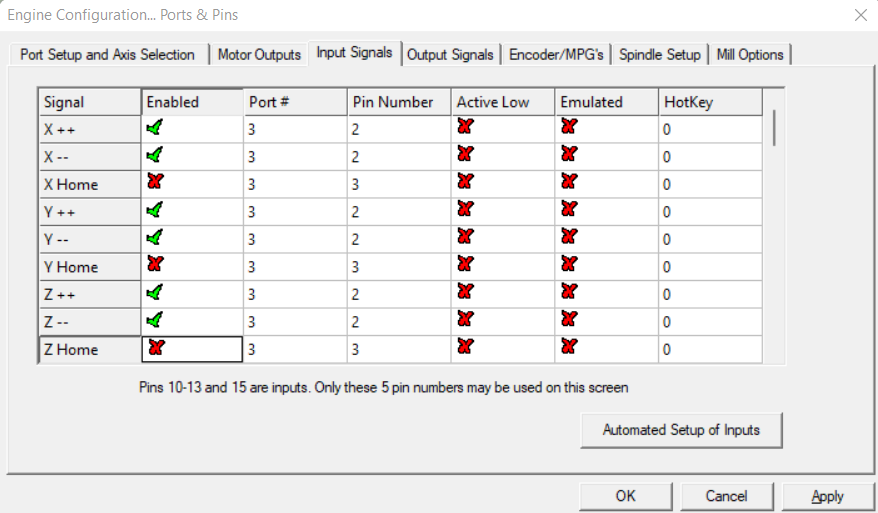
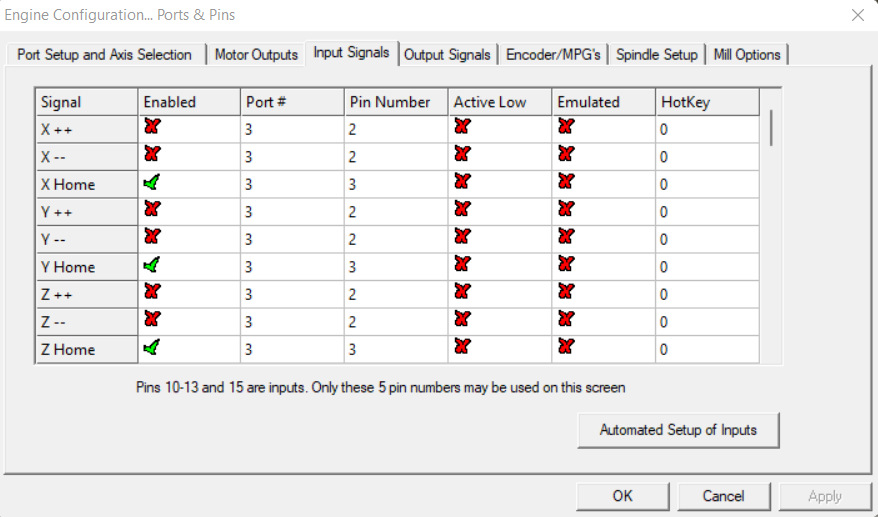
update

diff --git a/README.md b/README.md
@@ -83,9 +83,9 @@ Desplácese hacia abajo en la tabla hasta encontrar la opción **EStop**, asegú
 Los finales de carrera se conectarán de forma paralela en la entrada 2 de la tarjeta Mach3.
 
 Desplácese hacia arriba en la tabla hasta encontrar las opciones:
-**X++, X--, Y++, Y--, Z++, Z--** asegúrese de que tienen marcada la opción ```Enabled``` e ingrese los siguientes valores:
+**X HOME, Y HOME, ZHOME** asegúrese de que tienen marcada la opción ```Enabled``` e ingrese los siguientes valores:
 - Port #: 3. Se refiere a la tarjeta Mach3
-- Pin Number: 2. Se refiere a la entrada número 2 (**IN2**) de la tarjeta
+- Pin Number: 3. Se refiere a la entrada número 3 (**IN3**) de la tarjeta
 
 <p align="center"><img width="400" src="https://github.com/sofiaponteb/Guia-de-instalacion-software-Mach3/blob/main/img/finalescarrera.png"></p>
 
@@ -104,6 +104,13 @@ En el Gcode se usarán los siguientes códigos:
 - **M9:** Apagar válvula
 
 <p align="center"><img width="400" src="https://github.com/sofiaponteb/Guia-de-instalacion-software-Mach3/blob/main/img/salidas.png"></p>
+
+### Importar GCode
+Para importar código G a ser usado en la máquina, seleccione la opción ```File > Load G-Code```. Seleccione el archivo que contiene el código a utilizar.
+
+El software soporta las extensiones ```.ncc```, ```.gcode```, ```.txt```
+
+En el repositorio puede encontrar un código de prueba ```prueba.txt``` 
 
 ## Referencias :open_book:
 - machsupport.com
